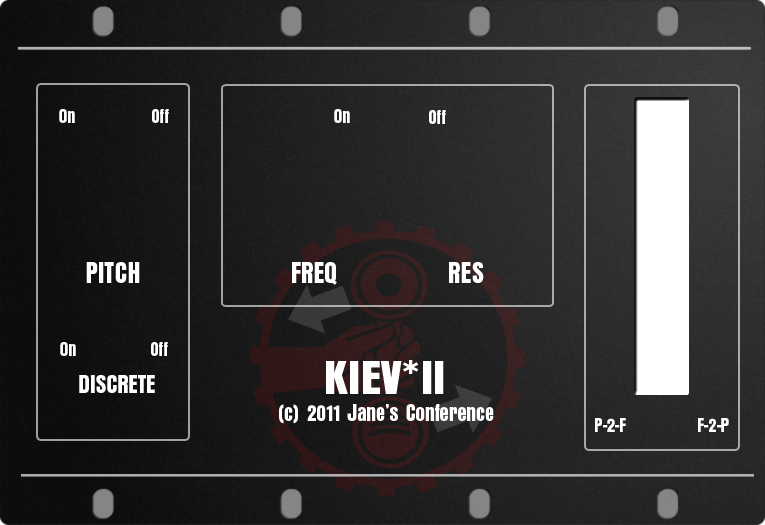
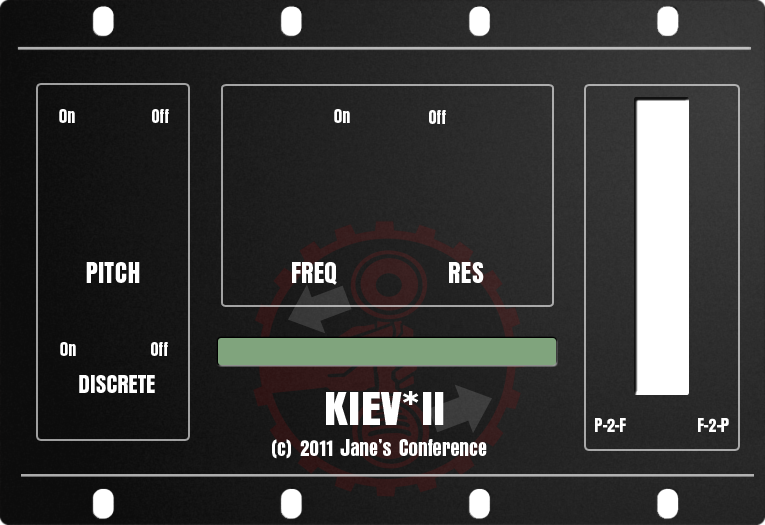
Added the LCD status bar to the demo, and an embedded @font-face for the status bar.

diff --git a/demos/voron/voron.js b/demos/voron/voron.js
@@ -64,21 +64,9 @@ VORON.keepON = function () {
 
     this.audioInit();
 
-    // Here we add the elements to the UI, optionally add
-    // connections between them and set the initial values.
-
-    this.ui.addElement(this.gui, this.imageDisplayer);
-    this.ui.addElement(this.pitchKnob, this.pitchKnobImageDisplayer);
-    this.ui.addElement(this.freqKnob, this.freqKnobImageDisplayer);
-    this.ui.addElement(this.qKnob, this.qKnobImageDisplayer);
-    this.ui.addElement(this.volSlider, this.volImageDisplayer);
-    this.ui.addElement(this.pitchOnSwitch, this.switchImageDisplayer);
-    this.ui.addElement(this.pitchDiscSwitch, this.switchImageDisplayer);
-    this.ui.addElement(this.freqSwitch, this.switchImageDisplayer);
-    this.ui.addElement(this.invertSwitch, this.switchImageDisplayer);
-
     // TODO Something like ui.refresh() would be more appropriate, I guess.
     this.gui.refresh();
+    
 
     // TODO if drawClass is undefined, just exit. This should be in the
     // initialize section, not here. keepON should do a ui.refresh() to
@@ -97,6 +85,14 @@ VORON.keepON = function () {
     this.pitchDiscSwitch.setValue ("buttonvalue", 0);
     this.freqSwitch.setValue ("buttonvalue", 0);
     this.invertSwitch.setValue ("buttonvalue", 0);
+
+    if (this.audioOk !== true) {
+        this.label.setValue("labelvalue", "Audio *NOT* supported by browser.");
+    }
+
+    else {
+        this.label.setValue ("labelvalue", "Audio support OK");
+    }
 
 }
 
@@ -146,11 +142,13 @@ VORON.loadingManager = function (elementName) {
 VORON.pitchCallback = function () {
     var that = this;
     return function (slot, value) {
+
+        // TODO: this interpolation should really not be linear.
+        // LINEAR INTERPOLATION: x := (c - a) * (z - y) / (b - a) + y
+        // c = value; a = 0; b = 1; y = 0.5; z = 2
+        var shift_value = value * (1.5) + 0.5;
+
         if (that.audioOk === true) {
-            // TODO: this interpolation should really not be linear.
-            // LINEAR INTERPOLATION: x := (c - a) * (z - y) / (b - a) + y
-            // c = value; a = 0; b = 1; y = 0.5; z = 2
-            var shift_value = value * (1.5) + 0.5;
             that.filter_shifter.setShift(shift_value);
             console.log ("pitch callback finished: slot is ", slot, " and value is ", value, " while shifting ratio is ", shift_value);
         }
@@ -158,16 +156,19 @@ VORON.pitchCallback = function () {
         else {
             console.log ("No moz-audio, just skipping");
         }
+        that.label.setValue("labelvalue", "Pitch Ratio_ " + shift_value.toFixed(3));
     };
 }
 
 VORON.freqCallback = function () {
     var that = this;
     return function (slot, value) {
+
+        // LINEAR INTERPOLATION: x := (c - a) * (z - y) / (b - a) + y
+        // c = value; a = 0; b = 1; y = 20; z = 2000
+        var cutoff_value = value  * (2000 - 20) + 20;
+
         if (that.audioOk === true) {
-            // LINEAR INTERPOLATION: x := (c - a) * (z - y) / (b - a) + y
-            // c = value; a = 0; b = 1; y = 20; z = 2000
-            var cutoff_value = value  * (2000 - 20) + 20;
             that.filter_lowpass.setCutoff(cutoff_value);
             console.log ("freq callback finished: slot is ", slot, " and value is ", value, " while cutoff is ", cutoff_value);
         }
@@ -175,6 +176,7 @@ VORON.freqCallback = function () {
         else {
             console.log ("No moz-audio, just skipping");
         }
+        that.label.setValue("labelvalue", "LPF Cutoff_ " + cutoff_value.toFixed() + " Hz");
     };
 }
 
@@ -182,10 +184,11 @@ VORON.qCallback = function () {
     var that = this;
     return function (slot, value) {
 
+        // LINEAR INTERPOLATION: x := (c - a) * (z - y) / (b - a) + y
+        // c = value; a = 0; b = 1; y = 1; z = 50
+        var q_value = value  * (50 - 1) + 1;
+
         if (that.audioOk === true) {
-            // LINEAR INTERPOLATION: x := (c - a) * (z - y) / (b - a) + y
-            // c = value; a = 0; b = 1; y = 1; z = 50
-            var q_value = value  * (50 - 1) + 1;
             that.filter_lowpass.setResonance(q_value);
             console.log ("q callback finished: slot is ", slot, " and value is ", value, " while res is ", q_value);
         }
@@ -193,7 +196,7 @@ VORON.qCallback = function () {
         else {
             console.log ("No moz-audio, just skipping");
         }
-
+        that.label.setValue("labelvalue", "LPF Resonance_ " + q_value.toFixed());
     };
 }
 
@@ -201,15 +204,17 @@ VORON.volCallback =function () {
     var that = this;
     return function (slot, value) {
 
+        var vol_value = 1 - value;
+
         if (that.audioOk === true) {
-            that.filter_volume.setVolume (value);
-            console.log ("vol callback finished: slot is ", slot, " and value is ", value);
+            that.filter_volume.setVolume (vol_value);
+            console.log ("vol callback finished: slot is ", slot, " and value is ", value, " while volume is ", vol_value);
         }
 
         else {
             console.log ("No moz-audio, just skipping");
         }
-
+        that.label.setValue("labelvalue", "Volume_ " + vol_value.toFixed(3));
     };
 }
 
@@ -217,19 +222,31 @@ VORON.switchCallback = function () {
     var that = this;
     return function (slot, value, elName) {
 
-        if (that.audioOk === true) {
+        
 
             console.log ("switch callback called: element is ", elName, " slot is ", slot, " and value is ", value, " while that is ", that);
             switch (elName) {
                 case "pitchOnSwitch":
                     if (value === 1) {
-                        that.filter_shifter.setOnOff(false);
-                        console.log ("Setting pitch off: ", value);
+
+                        if (that.audioOk === true) {
+                            console.log ("Setting pitch off: ", value);
+                            that.filter_shifter.setOnOff(false);
+                        }
+
+                        that.label.setValue("labelvalue", "Pitch_ OFF" );
+
                         break;
                     }
                     if (value === 0) {
-                        that.filter_shifter.setOnOff(true);
-                        console.log ("Setting pitch on: ", value);
+
+                        if (that.audioOk === true) {
+                            console.log ("Setting pitch on: ", value);
+                            that.filter_shifter.setOnOff(true);
+                        }
+
+                        that.label.setValue("labelvalue", "Pitch_ ON" );
+
                         break;
                     }
                     console.log ("pitchswitch has a strange value: ", value);
@@ -237,13 +254,25 @@ VORON.switchCallback = function () {
 
                 case "freqSwitch":
                     if (value === 1) {
-                        that.filter_lowpass.setOnOff(false);
-                        console.log ("Setting freq off: ", value);
+
+                        if (that.audioOk === true) {
+                            console.log ("Setting freq off: ", value);
+                            that.filter_lowpass.setOnOff(false);
+                        }
+
+                        that.label.setValue("labelvalue", "LP Filter_ OFF" );
+
                         break;
                     }
                     if (value === 0) {
-                        that.filter_lowpass.setOnOff(true);
-                        console.log ("Setting freq on: ", value);
+
+                        if (that.audioOk === true) {
+                            console.log ("Setting freq on: ", value);
+                            that.filter_lowpass.setOnOff(true);
+                        }
+
+                        that.label.setValue("labelvalue", "LP Filter_ ON" );
+
                         break;
                     }
                     console.log ("pitchswitch has a strange value: ", value);
@@ -252,11 +281,11 @@ VORON.switchCallback = function () {
                 default:
                 //nothing to be done
             }
-        }
+        
 
-        else {
-            console.log ("No moz-audio, just skipping");
-        }
+        //else {
+            //console//.log ("No moz-audio, just skipping");
+        //}
 
     };
 }
@@ -279,6 +308,7 @@ VORON.init = function () {
         pitchArgs,
         freqArgs,
         qArgs,
+        labelArgs,
         switchCallbackManager;
 
     /* END OF HOISTED VARs */
@@ -295,6 +325,12 @@ VORON.init = function () {
     this.pitchKnobImageDisplayer = new CanvasDrawImage (this.plugin_context);
     this.volImageDisplayer = new CanvasDrawImage (this.plugin_context);
     this.switchImageDisplayer = new CanvasDrawImage (this.plugin_context);
+    this.labelDisplayer = new CanvasDrawImage (this.plugin_context);
+    this.labelDisplayer = new CanvasDrawText (this.plugin_context);
+
+    this.labelDisplayer.setFont ("28px embedded_font");
+    this.labelDisplayer.setFillStyle('#3b6038');
+    this.labelDisplayer.setTextStyle('#000');
 
     this.loadCallback = this.loadingManager();
     /* END OF CONTEXT INIT */
@@ -384,4 +420,26 @@ VORON.init = function () {
 
     /* END OF SWITCHES INIT */
 
+    /* LABEL INIT */
+    labelArgs = {
+            wh : [320,29]
+        };
+
+    this.label = new Label("status", [224, 332], labelArgs);
+    /* END OF LABEL INIT */
+
+    // Here we add the elements to the UI, optionally add
+    // connections between them and set the initial values.
+
+    this.ui.addElement(this.gui, this.imageDisplayer);
+    this.ui.addElement(this.pitchKnob, this.pitchKnobImageDisplayer);
+    this.ui.addElement(this.freqKnob, this.freqKnobImageDisplayer);
+    this.ui.addElement(this.qKnob, this.qKnobImageDisplayer);
+    this.ui.addElement(this.volSlider, this.volImageDisplayer);
+    this.ui.addElement(this.pitchOnSwitch, this.switchImageDisplayer);
+    this.ui.addElement(this.pitchDiscSwitch, this.switchImageDisplayer);
+    this.ui.addElement(this.freqSwitch, this.switchImageDisplayer);
+    this.ui.addElement(this.invertSwitch, this.switchImageDisplayer);
+    this.ui.addElement(this.label, this.labelDisplayer);
+    
 }

diff --git a/demos/voron/index.html b/demos/voron/index.html
@@ -1,6 +1,33 @@
 <!DOCTYPE html>
 <html>
   <head>
+    <style type="text/css">
+        
+    @font-face {
+        font-family: "embedded_font";
+        src: url(SFDigitalReadoutHeavy.ttf);
+    }
+    .embed {
+        font-family: "embedded_font";
+    }
+    </style>
+
+      <script type="text/javascript">
+          //See http://paulirish.com/2009/fighting-the-font-face-fout/
+          (function(){
+            // if firefox 3.5+, hide content till load (or 3 seconds) to prevent FOUT
+            var d = document, e = d.documentElement, s = d.createElement('style');
+            if (e.style.MozTransform === ''){ // gecko 1.9.1 inference
+            s.textContent = 'body{visibility:hidden}';
+            var r = document.getElementsByTagName('script')[0];
+            r.parentNode.insertBefore(s, r);
+            function f(){ s.parentNode && s.parentNode.removeChild(s); }
+            addEventListener('load',f,false);
+            setTimeout(f,3000);
+            }
+        })();
+      </script>
+
     <title>Voron demo for KievII</title>
     <meta http-equiv="Content-Type" content="text/html; charset=UTF-8">
     <script type="text/javascript" src="http://github.com/notmasteryet/audiodata/raw/master/audiodata.js"></script>
@@ -10,6 +37,7 @@
     <script type="text/javascript" src="../../graphic_elements/Knob.js"></script>
     <script type="text/javascript" src="../../graphic_elements/Slider.js"></script>
     <script type="text/javascript" src="../../graphic_elements/Button.js"></script>
+    <script type="text/javascript" src="../../graphic_elements/Label.js"></script>
     <script type="text/javascript" src="../../graphic_elements/Background.js"></script>
     <script type="text/javascript" src="../../graphic_elements/wrappers/CanvasDraw.js"></script>
     <script type="text/javascript" src="../../dsp/pitchshift.js"></script>
@@ -19,6 +47,8 @@
     <script type="text/javascript" src="voron.js"></script>
   </head>
   <body>
+    <!-- Hack to load the embedded font -->
+    <p class="embed"></p>
     <audio id="a1" src="../../audio/sound_files/german_numbers.ogg" controls></audio>
     <canvas id="plugin" width="800" height="800"></canvas>
     <script type="text/javascript">
